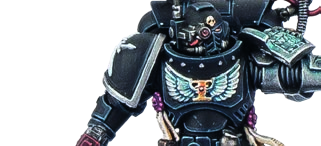
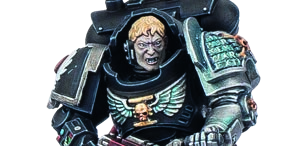
Correct seven Deathwatch portraits against official card positions

diff --git a/docs/deathwatch.md b/docs/deathwatch.md
@@ -8,3 +8,5 @@ Official composition cross-check: https://assets.warhammer-community.com/eng_29-
 The linked October official PDF is an older document: its ammunition options, Veteran Astartes and several ploys differ from the retained JSON. Do not overwrite the community snapshot with those older rules or claim latest balance verification. Korean text translates the retained JSON, with English retained for inspection. Operative portraits are extracted from the linked official Deathwatch datacards.
 
 Included in the roster-home / Deathwatch release.
+
+Portrait audit (2026-10-18): matched all 11 embedded image drawing coordinates to adjacent card titles. Corrected Watch Sergeant, Aegis, Blademaster, Bombard, Disruptor, Gunner and Breacher; remaining four matched. See public/images/operatives/deathwatch-sources.json for page/resource/hash provenance.
